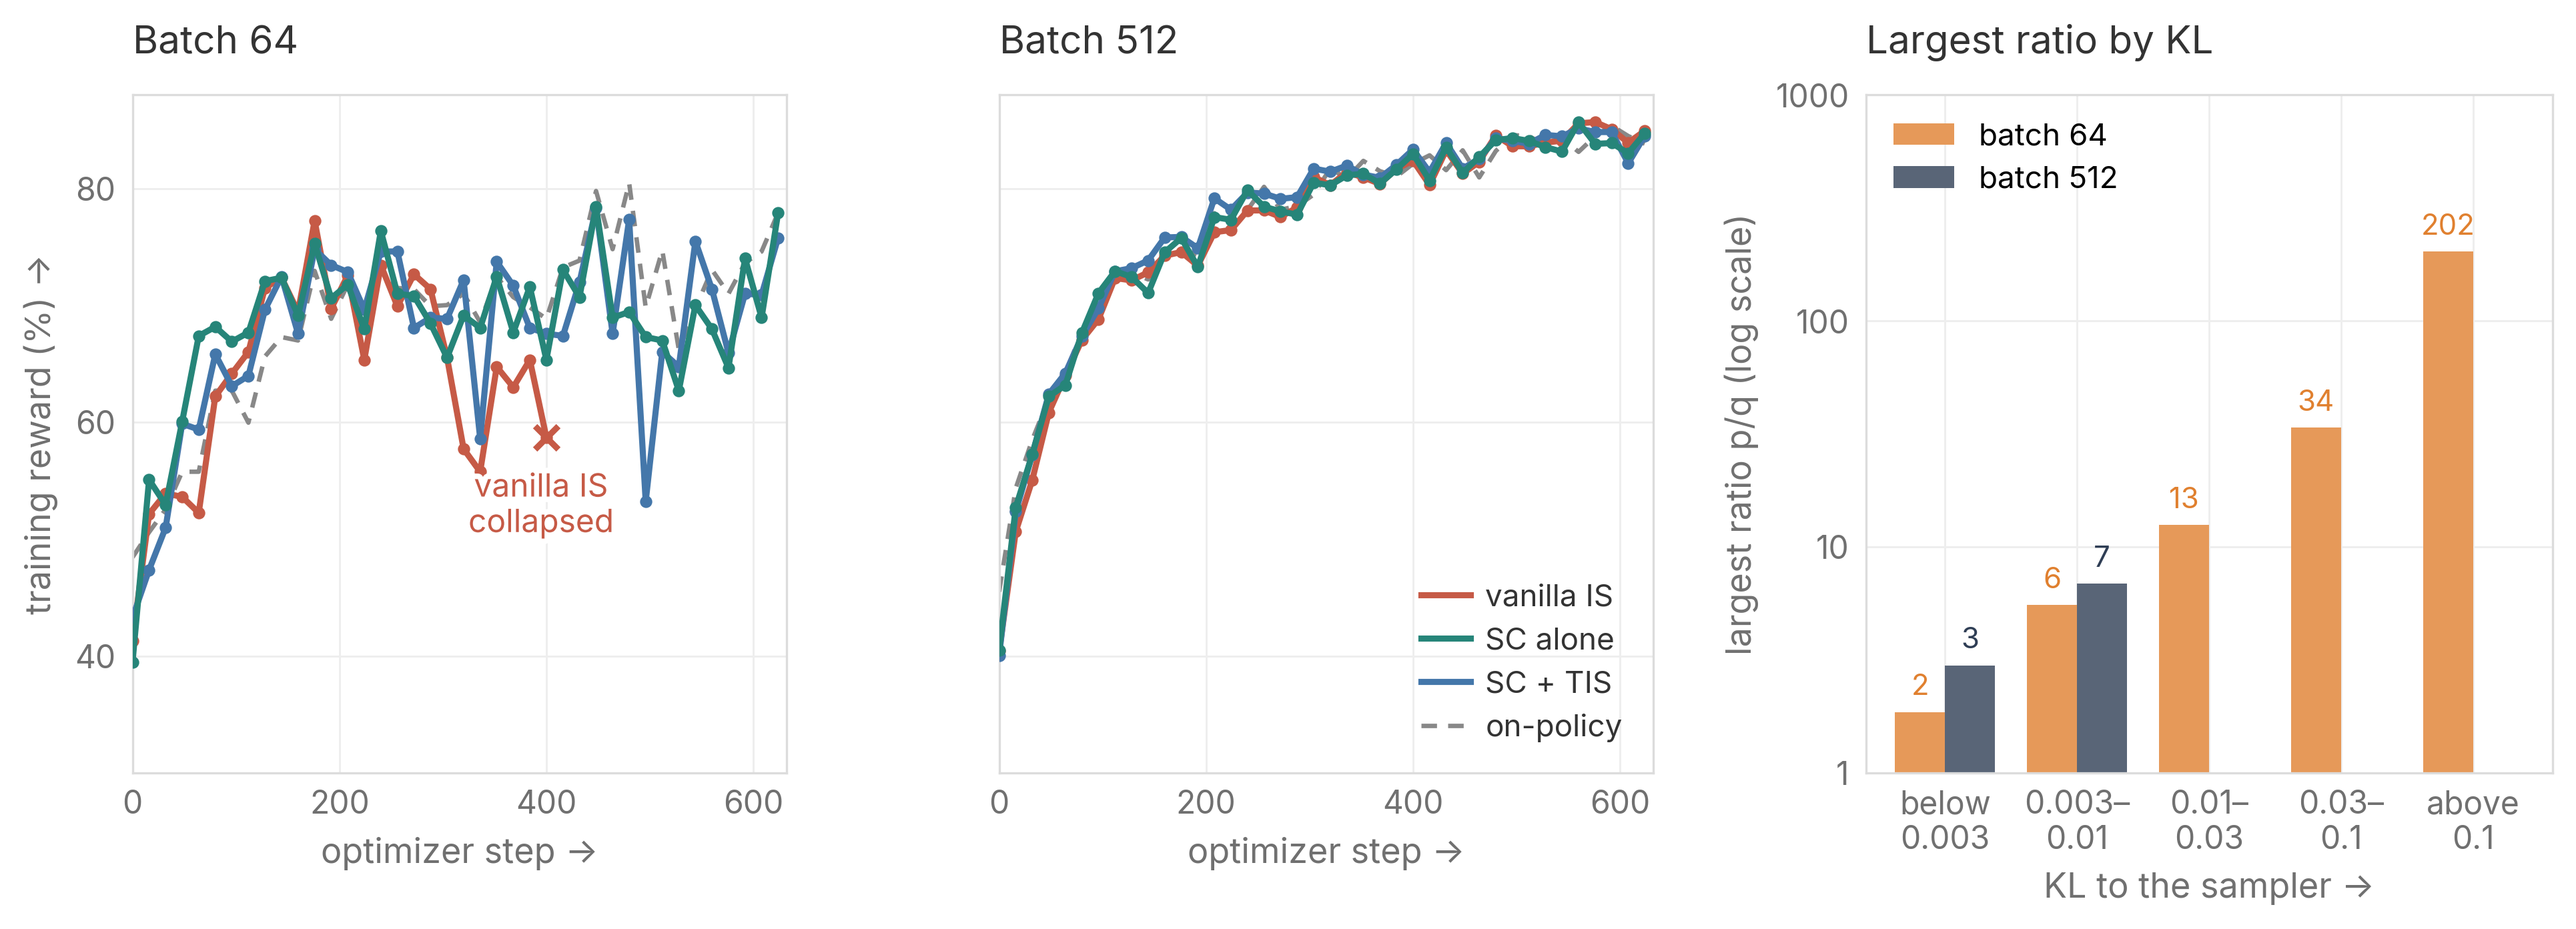
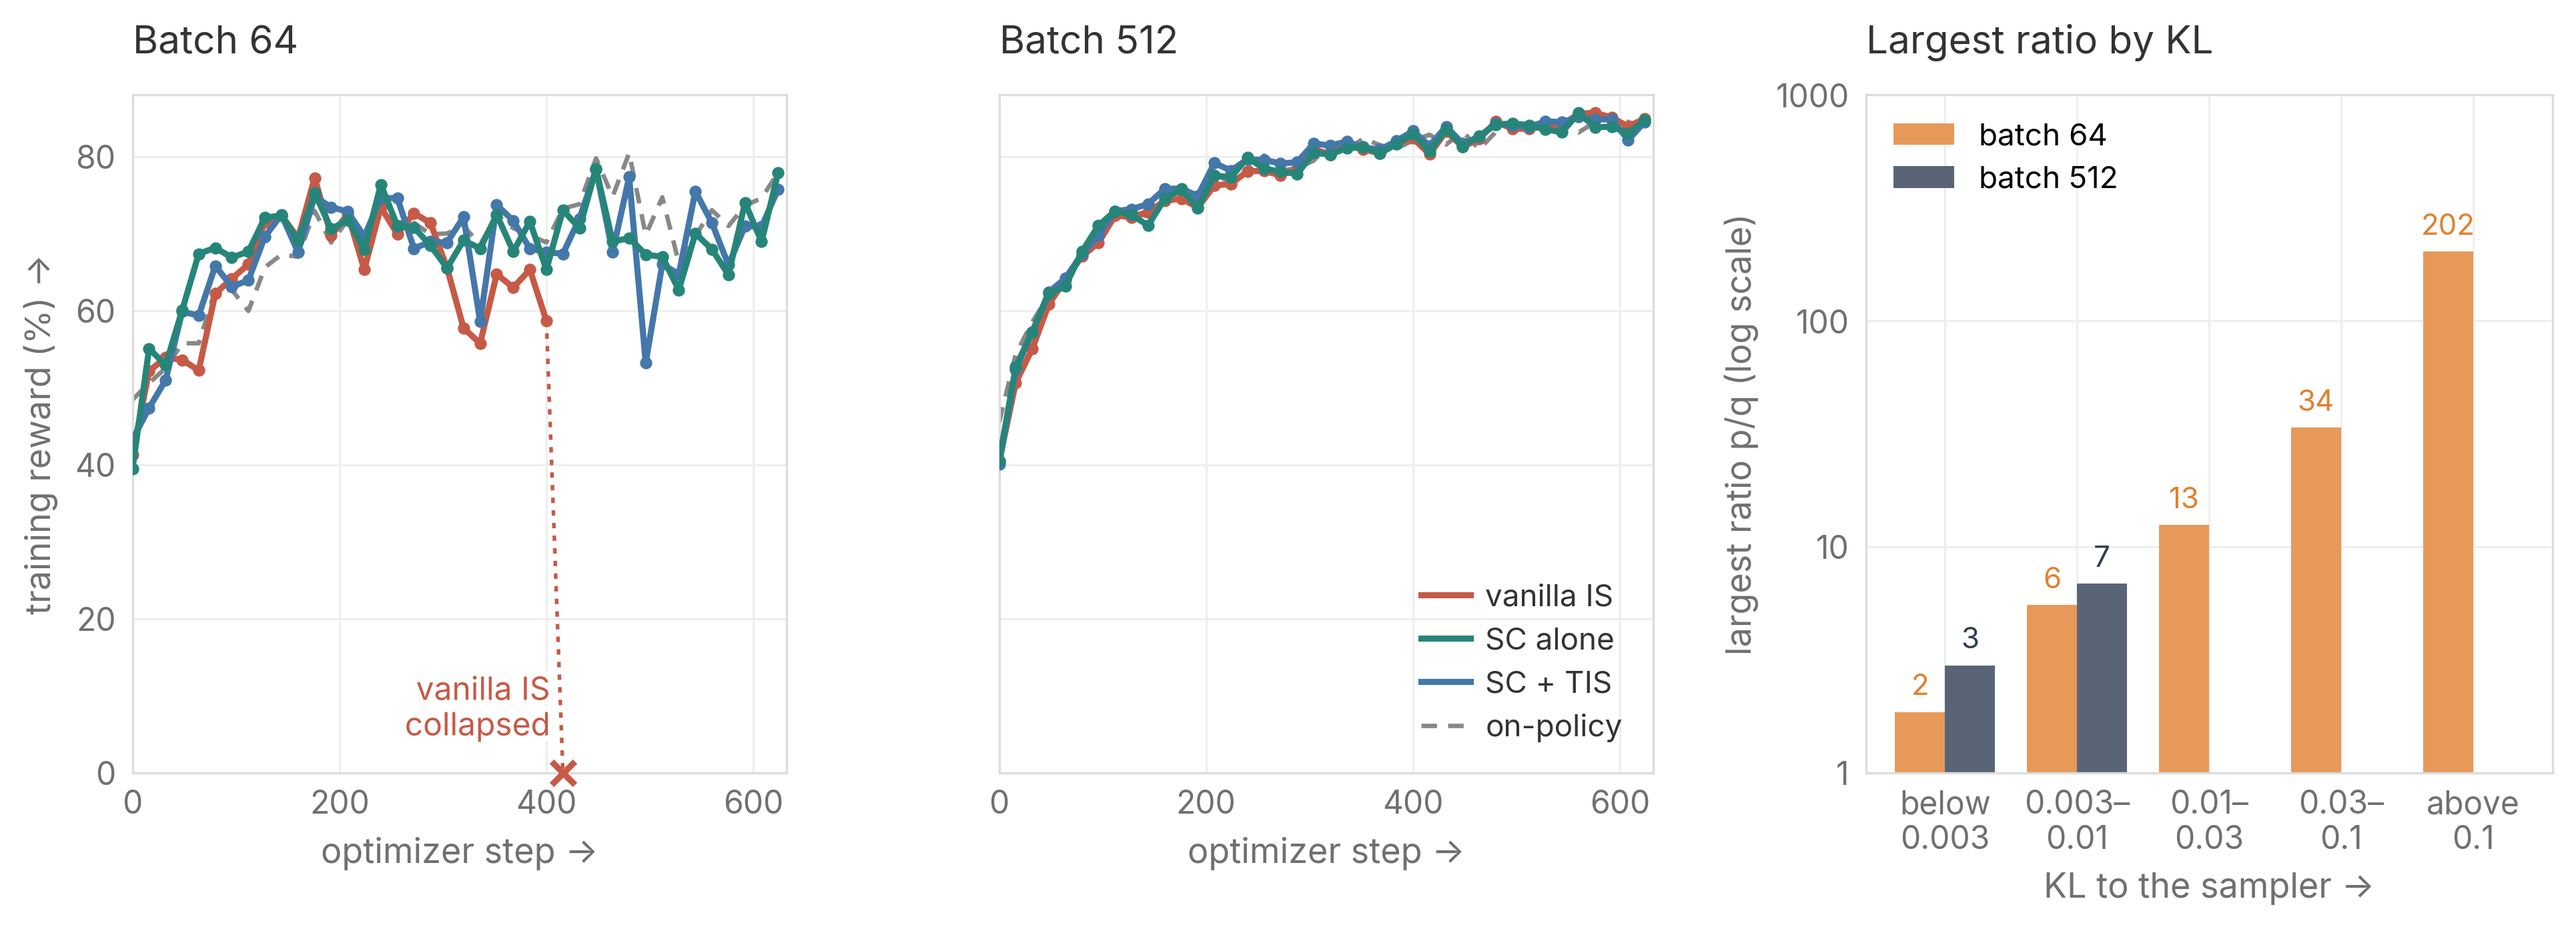
sc-drift-and-distance: Figure 5 collapse drawn to zero

diff --git a/sc-drift-and-distance/index.html b/sc-drift-and-distance/index.html
@@ -182,7 +182,7 @@ html[data-theme=dark] .body figure img{filter:invert(.92) hue-rotate(180deg)}
 </details>
 <h3 id="sec-2-2">2.2 Large batches: SC alone keeps up with on-policy training</h3>
 <p>Batch 64 was small enough for vanilla IS to collapse. We now raise the batch to 512 at the same staleness and ask whether that keeps all three methods stable (<a class="figref" href="#fig-5">Figure 5</a>).</p>
-<figure id="fig-5"><img src="figs/fig05_batch64_vs_512_v3.png?v=2df1dbcbf1" alt="Figure 5"><figcaption><b>Figure 5. Vanilla IS, SC alone, and SC + TIS at batch 64 and batch 512.</b> 0.8B on GSM8K, staleness 15. Left two panels: training reward. Right: median of each mini-batch's largest ratio \(p/q\), grouped by its KL to the sampler.</figcaption></figure>
+<figure id="fig-5"><img src="figs/fig05_batch64_vs_512_v3.png?v=79759e1f4c" alt="Figure 5"><figcaption><b>Figure 5. Vanilla IS, SC alone, and SC + TIS at batch 64 and batch 512.</b> 0.8B on GSM8K, staleness 15. Left two panels: training reward. Right: median of each mini-batch's largest ratio \(p/q\), grouped by its KL to the sampler.</figcaption></figure>
 <p>The left two panels of <a class="figref" href="#fig-5">Figure 5</a> show that a larger batch stabilizes all three methods. At batch 512, they all keep up with on-policy to the end, while at batch 64 the curves are noisy and vanilla IS collapses. The next subsection shows the same pattern on 4B at batch 128.</p>
 <p>The larger batch works by shrinking the distance. With less noise per step, the trainer does not move away from the sampler by chance. An 8× larger batch lowers the median KL about 8×, and truncation almost never triggers. <a class="secref" href="#sec-3">Section 3</a> explains why the drop is so close to 8×.</p>
 <p><a class="figref" href="#fig-6">Figure 6</a> shows that a larger batch helps only once drift is removed. Without correction, the KL runs away within the first rollout at batch 512 just as at batch 64. Drift pushes every step in the same direction, and a larger batch averages away only random noise. With SC, the KL stays small at both, and batch 512 ends the rollout at about half the KL of batch 64.</p>
